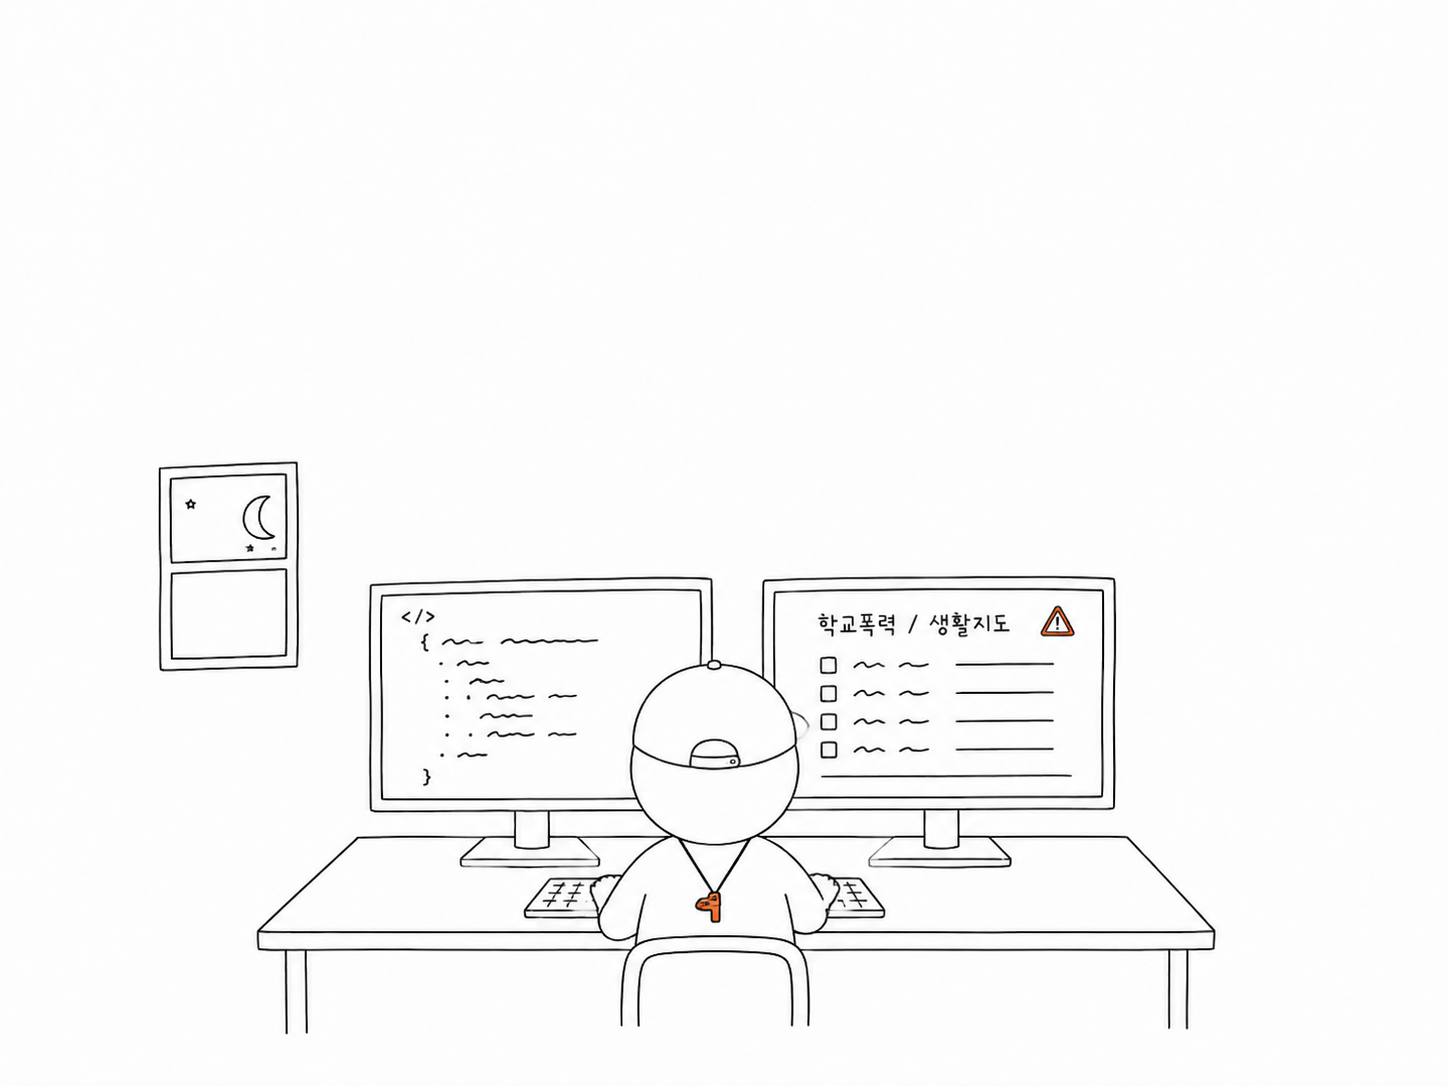
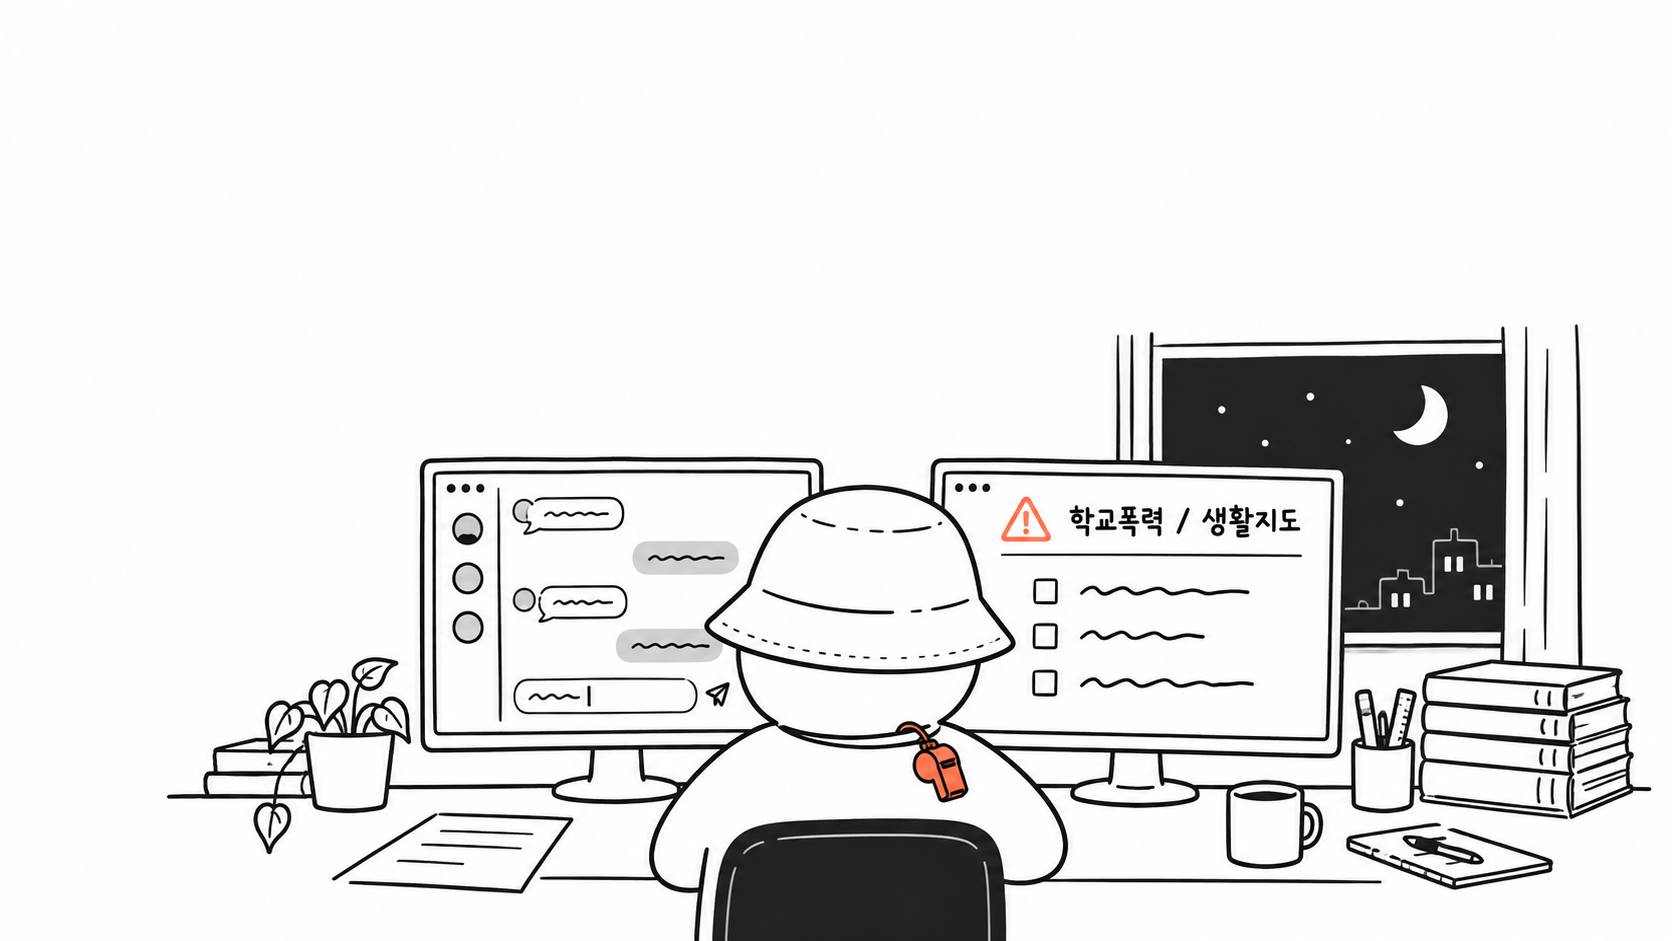
표지 그림 교체 — 왼쪽 모니터를 AI 대화창으로
Claude-Session: https://claude.ai/code/session_01BCsoog2BAMruSG9X7Q4kop

Changed region(s): [[0.0932, 0.339, 0.9945, 1.0], [0.0932, 0.4006, 0.2175, 0.6164]]

diff --git a/book/index.html b/book/index.html
@@ -51,7 +51,7 @@ a{color:inherit}
 #cover{min-height:100%;display:flex;flex-direction:column}
 #cover .wrap{width:100%}
 .photo{margin:0;max-width:34rem;margin-inline:auto}
-.photo img{display:block;width:100%;max-width:100%;aspect-ratio:4/3;object-fit:cover;object-position:50% 60%;max-height:52vh;background:#fff}
+.photo img{display:block;width:100%;max-width:100%;aspect-ratio:16/9;object-fit:cover;object-position:50% 55%;max-height:46vh;background:#fff}
 .photo figcaption{font-family:var(--sans);font-size:12px;color:var(--soft);padding:8px 20px 0;letter-spacing:.02em}
 /* 표지 그림이 아직 없을 때 자리만 잡아 두는 틀 — img에 src가 들어오면 자동으로 사라짐 */
 .photo .slot{aspect-ratio:4/3;max-height:46vh;border:1px dashed var(--rule);display:grid;place-items:center;font-family:var(--sans);font-size:12px;color:var(--soft);letter-spacing:.06em}
@@ -113,7 +113,7 @@ a{color:inherit}
 <section id="cover" class="view">
   <figure class="photo">
     <!-- 표지 그림이 정해지면 아래 img에 src를 넣고 slot div를 지우기 -->
-    <img id="coverImg" src="cover.png" alt="밤늦게 모니터 두 대 앞에 앉은 체육교사 — 두들 그림" width="1456" height="1092">
+    <img id="coverImg" src="cover.png" alt="밤에 모니터 두 대 앞에 앉은 체육교사. 왼쪽 화면은 AI와의 대화, 오른쪽은 학교폭력·생활지도 목록 — 두들 그림" width="1680" height="945">
     <div class="slot" id="coverSlot" hidden>표지 그림 자리</div>
     <figcaption>어느 새벽</figcaption>
   </figure>
